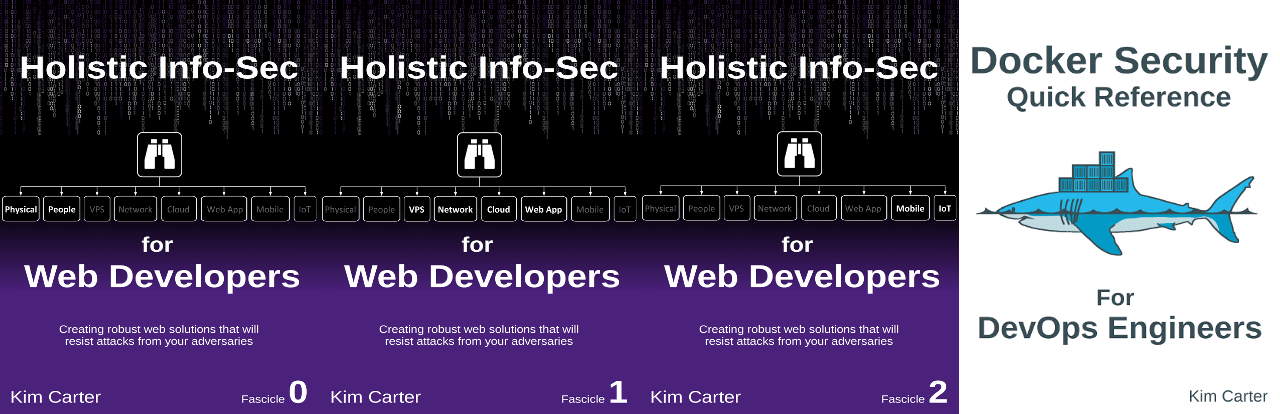
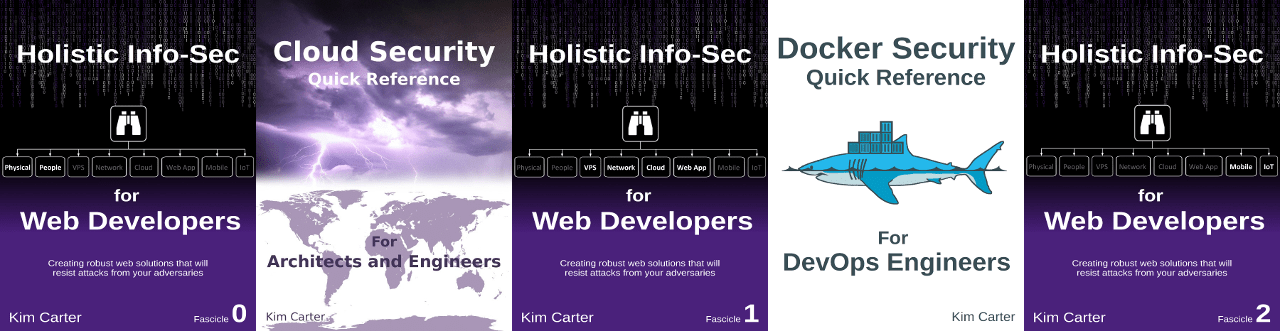
Added Cloud Security book

diff --git a/content/publication/cloud-security.md b/content/publication/cloud-security.md
@@ -1,0 +1,94 @@
++++
+title = "Cloud Security - Quick Reference"
+date = "2018-04-02"
+
+# Authors. Comma separated list, e.g. `["Bob Smith", "David Jones"]`.
+authors = ["Kim Carter"]
+
+# Publication type.
+# Legend:
+# 0 = Uncategorized
+# 1 = Conference proceedings
+# 2 = Journal
+# 3 = Work in progress
+# 4 = Technical report
+# 5 = Book
+# 6 = Book chapter
+publication_types = ["5"]
+
+# Publication name and optional abbreviated version.
+publication = "Self Hosted and LeanPub"
+publication_short = "Self Hosted & LeanPub"
+
+tags = ["publication", "book", "application-security", "cloud", "cloud-security", "cybersecurity", "dev-ops", "dev-sec-ops", "information-security", "infosec", "networking", "network-security", "security", "security-weaknesses", "software-security"]
+
+summary = """
+Are you looking to achieve a good understanding of your responsibilities as well as your CSPs responsibilities to make sure your security stature in the Cloud is where you need it to be? Do you need the technical direction required to create your secure Cloud environment? You can think of this book as your technical Cloud consultant.
+"""
+
+# Abstract and optional shortened version.
+abstract = "In this book we walk through threat modelling your Cloud environment. We break down and provide solid understanding of the shared responsibility model, that is: What are the CSPs responsibilities and what are your responsibilities as a consumer of the services that your chosen CSP offers. We provide a set of questions and possible answers to help you evaluate the most suitable CSP for your needs.<br><br>We discus the pros and cons of the Cloud vs In-house clouds, along with techniques for improving your understanding and implementation of the principle of least privilege in the Cloud."
+
+abstract_short = "Are you looking to achieve a good understanding of your responsibilities as well as your CSPs responsibilities to make sure your security stature in the Cloud is where you need it to be? Do you need the technical direction required to create your secure Cloud environment? You can think of this book as your technical Cloud consultant."
+
+# Featured image thumbnail (optional)
+image_preview = "/img/publication/title_page_docker-security.png"
+
+# Is this a selected publication? (true/false)
+selected = false
+
+# Projects (optional).
+#   Associate this publication with one or more of your projects.
+#   Simply enter the filename (excluding '.md') of your project file in `content/project/`.
+#projects = ["example-external-project"]
+
+# Links (optional).
+url_pdf = ""
+url_preprint = ""
+url_code = ""
+url_dataset = ""
+url_project = ""
+url_slides = ""
+url_video = ""
+url_poster = ""
+url_source = ""
+
+# Custom links (optional).
+#   Uncomment line below to enable. For multiple links, use the form `[{...}, {...}, {...}]`.
+url_custom = [{name = "Purchase Book", url = "https://leanpub.com/cloudsecurity-quickreference"}, {name = "Kim's Other Books", url = "/publication/kims-selected-publications/"}, {name = "Related Workshop", url = "project/service-development-team-security-training/"}, {name = "Podcast", url = "publication/ser-podcast-cloud-security/"}]
+
+# Does the content use math formatting?
+math = true
+
+# Does the content use source code highlighting?
+highlight = true
+
+# Featured image
+# Place your image in the `static/img/` folder and reference its filename below, e.g. `image = "example.jpg"`.
+[header]
+image = ""
+#caption = "My caption :smile:"
+
++++
+
+The book also covers:
+
+* Techniques and tools for storing and accessing secrets in the Cloud securely
+* Risks and countermeasures of serverless offerings
+* Infrastructure and configuration management techniques and tools
+* An interview with Scott Piper (AWS security specialist)
+* Many other tips, tricks and tools
+
+
+[![Cloud Security Quick Reference](/img/publication/title_page_cloud-security_720.jpg)](https://leanpub.com/cloudsecurity-quickreference)
+
+Please note that the entire content of this book is included in The Cloud chapter of [Holistic InfoSec for Web Developers F1](https://f1.holisticinfosecforwebdevelopers.com/).
+
+<br>
+
+##### Errata (errors, typos, etc.)
+
+* Submit an [issue](https://github.com/binarymist/cloudsecurity-quickreference/issues)
+* Open [issues](https://github.com/binarymist/cloudsecurity-quickreference/issues?q=is%3Aopen+is%3Aissue)
+* Closed [issues](https://github.com/binarymist/cloudsecurity-quickreference/issues?q=is%3Aissue+is%3Aclosed)
+

diff --git a/content/publication/kims-selected-publications.md b/content/publication/kims-selected-publications.md
@@ -73,6 +73,34 @@ image = "headers/publications-selected.png"
 
 <div class="col-xs-12 col-sm-6 col-md-4 col-lg-6 project-item isotope-item">
   <div class="card"> 
+    <a href="/publication/cloud-security/" title="Cloud Security - Quick Reference" class="card-image hover-overlay">
+      <img src="/img/publication/title_page_cloud-security_720.jpg" alt="Cloud Security - Quick Reference" class="img-responsive kims-selected-publications">
+    </a> 
+    <div class="card-text">
+      <h4><a href="/publication/cloud-security/" >Cloud Security &nbsp; - &nbsp; Quick Reference &nbsp;&nbsp;&nbsp;&nbsp;&nbsp;</a></h4>
+      <div class="card-desription">
+        <p>Providing insight into the shared responsibility model of the Cloud. Making sure your security stature in the Cloud is where you need it to be? Providing the architectural and technical direction required to create your secure Cloud environment. <b>This entire content is included in The VPS chapter of Holistic InfoSec for Web Developers F1.</b></p>
+      </div>
+    </div>
+  </div>
+</div>
+
+<div class="col-xs-12 col-sm-6 col-md-4 col-lg-6 project-item isotope-item">
+  <div class="card"> 
+    <a href="/publication/docker-security/" title="Docker Security - Quick Reference" class="card-image hover-overlay">
+      <img src="/img/publication/title_page_docker-security_720.png" alt="Docker Security - Quick Reference" class="img-responsive kims-selected-publications">
+    </a> 
+    <div class="card-text">
+      <h4><a href="/publication/docker-security/" >Docker Security &nbsp; - &nbsp; Quick Reference &nbsp;&nbsp;&nbsp;</a></h4>
+      <div class="card-desription">
+        <p>The security defaults of Docker are established to get you up and running (“just work”) quickly, rather than being the most secure. In this book we improve upon many default configurations. Including knowledge gleaned from the Docker Security Team Lead. <b>This entire content is included in The VPS chapter of Holistic InfoSec for Web Developers F1.</b></p>
+      </div>
+    </div>
+  </div>
+</div>
+
+<div class="col-xs-12 col-sm-6 col-md-4 col-lg-6 project-item isotope-item">
+  <div class="card"> 
     <a href="https://f0.holisticinfosecforwebdevelopers.com" target="_blank" title="Holistic Info-Sec for Web Developers Fascicle 0" class="card-image hover-overlay">
       <img src="/img/publication/title_page_f0_720.png" alt="Holistic Info-Sec for Web Developers Fascicle 0" class="img-responsive kims-selected-publications">
     </a> 
@@ -112,20 +140,6 @@ image = "headers/publications-selected.png"
     </div>
   </div>
 </div> 
-
-<div class="col-xs-12 col-sm-6 col-md-4 col-lg-6 project-item isotope-item">
-  <div class="card"> 
-    <a href="/publication/docker-security/" title="Docker Security - Quick Reference" class="card-image hover-overlay">
-      <img src="/img/publication/title_page_docker-security_720.png" alt="Docker Security - Quick Reference" class="img-responsive kims-selected-publications">
-    </a> 
-    <div class="card-text">
-      <h4><a href="/publication/docker-security/" >Docker Security &nbsp; - &nbsp; Quick Reference &nbsp;&nbsp;&nbsp;</a></h4>
-      <div class="card-desription">
-        <p>The security defaults of Docker are established to get you up and running (“just work”) quickly, rather than being the most secure. In this book we improve upon many default configurations. Including knowledge gleaned from the Docker Security Team Lead. <b>This entire content is included in The VPS chapter of Holistic InfoSec for Web Developers F1.</b></p>
-      </div>
-    </div>
-  </div>
-</div>
 
 <br><br><br><br><br><br><br><br><br><br><br><br><br><br><br><br><br><br><br><br><br><br><br><br><br><br><br><br><br><br><br><br><br><br><br><br><br><br><br><br><br><br><br><br><br><br><br><br>
 

diff --git a/content/publication/SER-podcast-cloud-security.md b/content/publication/SER-podcast-cloud-security.md
@@ -55,7 +55,7 @@ url_source = ""
 
 # Custom links (optional).
 #   Uncomment line below to enable. For multiple links, use the form `[{...}, {...}, {...}]`.
-url_custom = [{name = "Podcast", url = "http://www.se-radio.net/2018/01/se-radio-episode-314-scott-piper-on-cloud-security/"}, {name = "Direct Download", url = "http://traffic.libsyn.com/seradio/SE-Radio-Episode-314-Scott-Piper-on-Cloud-Security.mp3"}, {name = "Source Chapter", url = "https://f1.holisticinfosecforwebdevelopers.com/chap05.html#cloud"}]
+url_custom = [{name = "Podcast", url = "http://www.se-radio.net/2018/01/se-radio-episode-314-scott-piper-on-cloud-security/"}, {name = "Direct Download", url = "http://traffic.libsyn.com/seradio/SE-Radio-Episode-314-Scott-Piper-on-Cloud-Security.mp3"}, {name = "Kim's Cloud Security Book", url = "publication/cloud-security/"}]
 
 # Does the content use math formatting?
 math = true

diff --git a/content/publication/docker-security.md b/content/publication/docker-security.md
@@ -23,7 +23,7 @@ publication_short = "Self Hosted & LeanPub"
 tags = ["publication", "book", "application-security", "capabilities", "control-groups", "cybersecurity", "dev-ops", "dev-sec-ops", "docker", "information-security", "infosec", "linux", "lsm", "namespaces", "seccomp", "security", "security-weaknesses", "software-security", "web-application-security"]
 
 summary = """
-The security defaults of Docker are established to get you up and running ("just work") quickly, rather than being the most secure. There are many default configurations that can be improved upon. This book will help you do just that.
+Are you looking to improve the security of your Docker deployments? Do you want to confirm you haven't missed any important security aspects in your Docker infrastructure?
 """
 
 # Abstract and optional shortened version.
